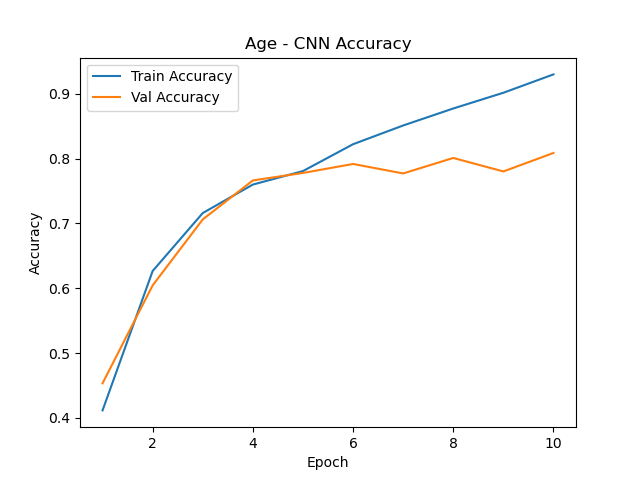
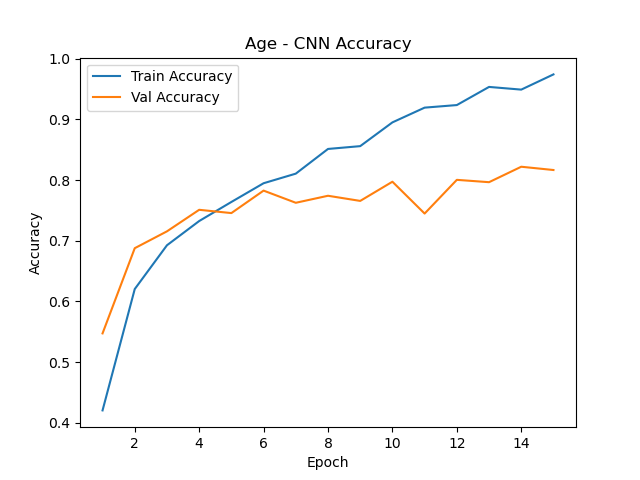
Finalizing the CNN

diff --git a/CNN/main.py b/CNN/main.py
@@ -98,7 +98,7 @@ def main():
     parser.add_argument('--csv', type=str, default='labels.csv', help='Path to CSV with labels and npy paths')
     parser.add_argument('--batch-size', type=int, default=32)
     parser.add_argument('--lr', type=float, default=1e-3)
-    parser.add_argument('--epochs', type=int, default=10)
+    parser.add_argument('--epochs', type=int, default=15)
     parser.add_argument('--model', type=str, choices=['cnn', 'mlp', 'gcnn'], default='cnn')
     parser.add_argument('--task', type=str, choices=['gender', 'age'], default='gender')
     parser.add_argument('--device', type=str, default='cuda' if torch.cuda.is_available() else 'cpu')

diff --git a/CNN/structures.py b/CNN/structures.py
@@ -1,10 +1,10 @@
 import torch
 
 def time_reversal(x):
-    return torch.flip(x, dims=[-1])  # flip along width (time)
+    return torch.flip(x, dims=[-1])
 
 def frequency_inversion(x):
-    return torch.flip(x, dims=[-2])  # flip along height (frequency)
+    return torch.flip(x, dims=[-2])
 
 def tf_transforms(x):
     return [
